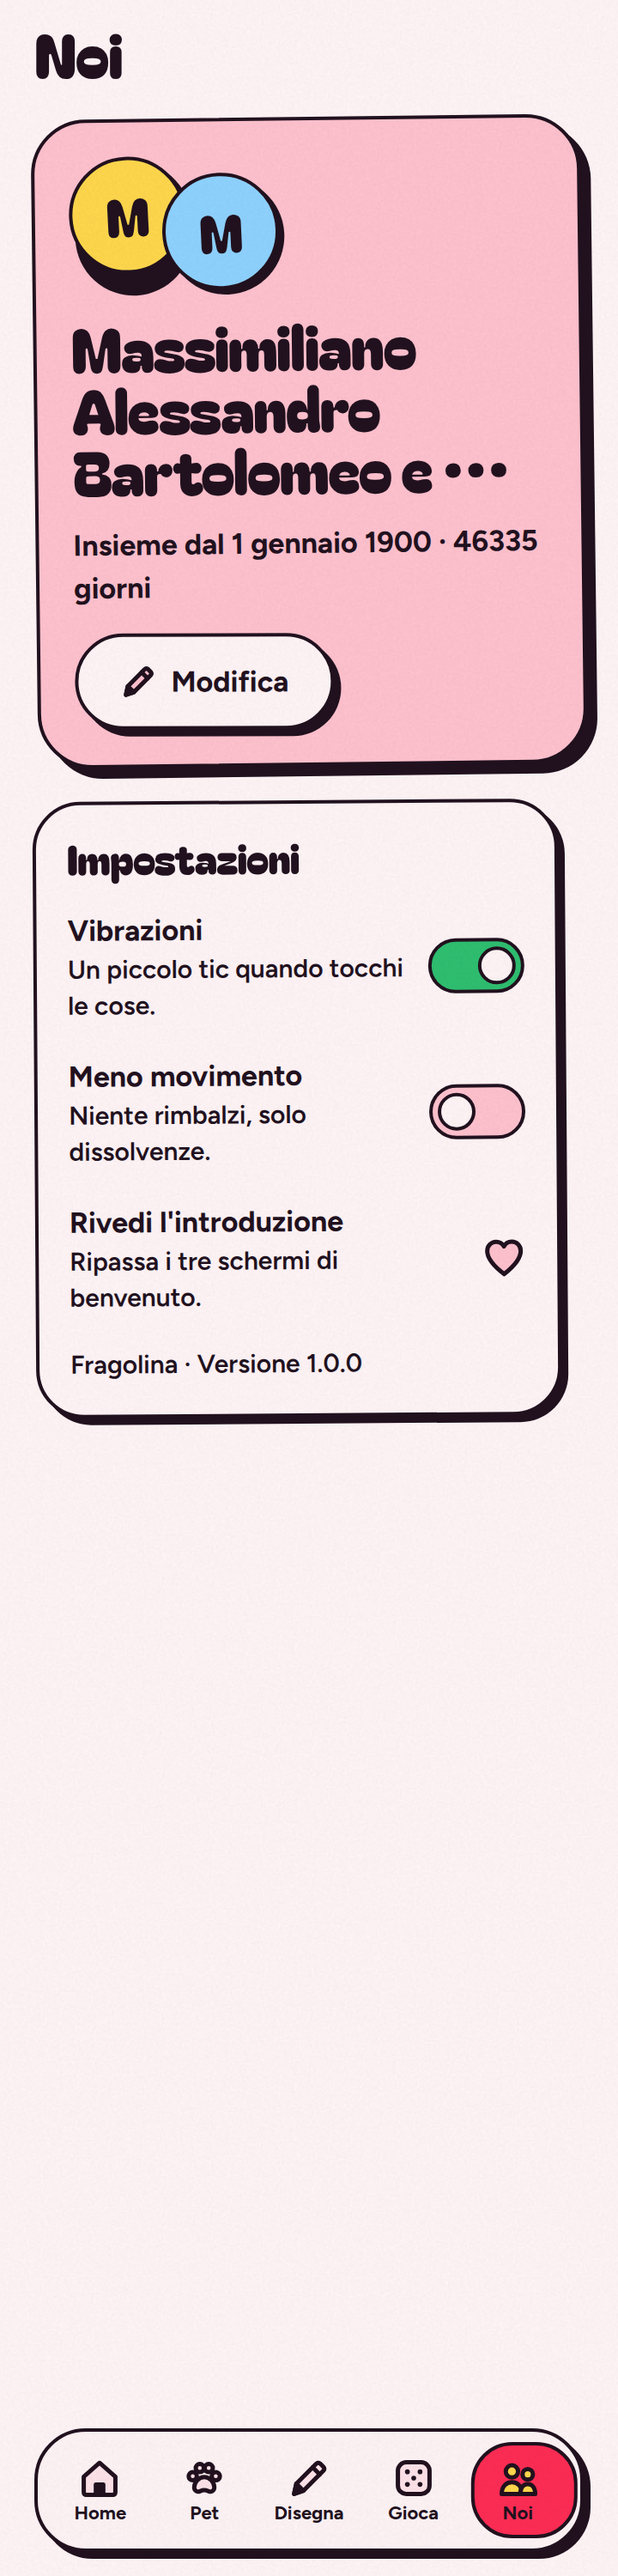
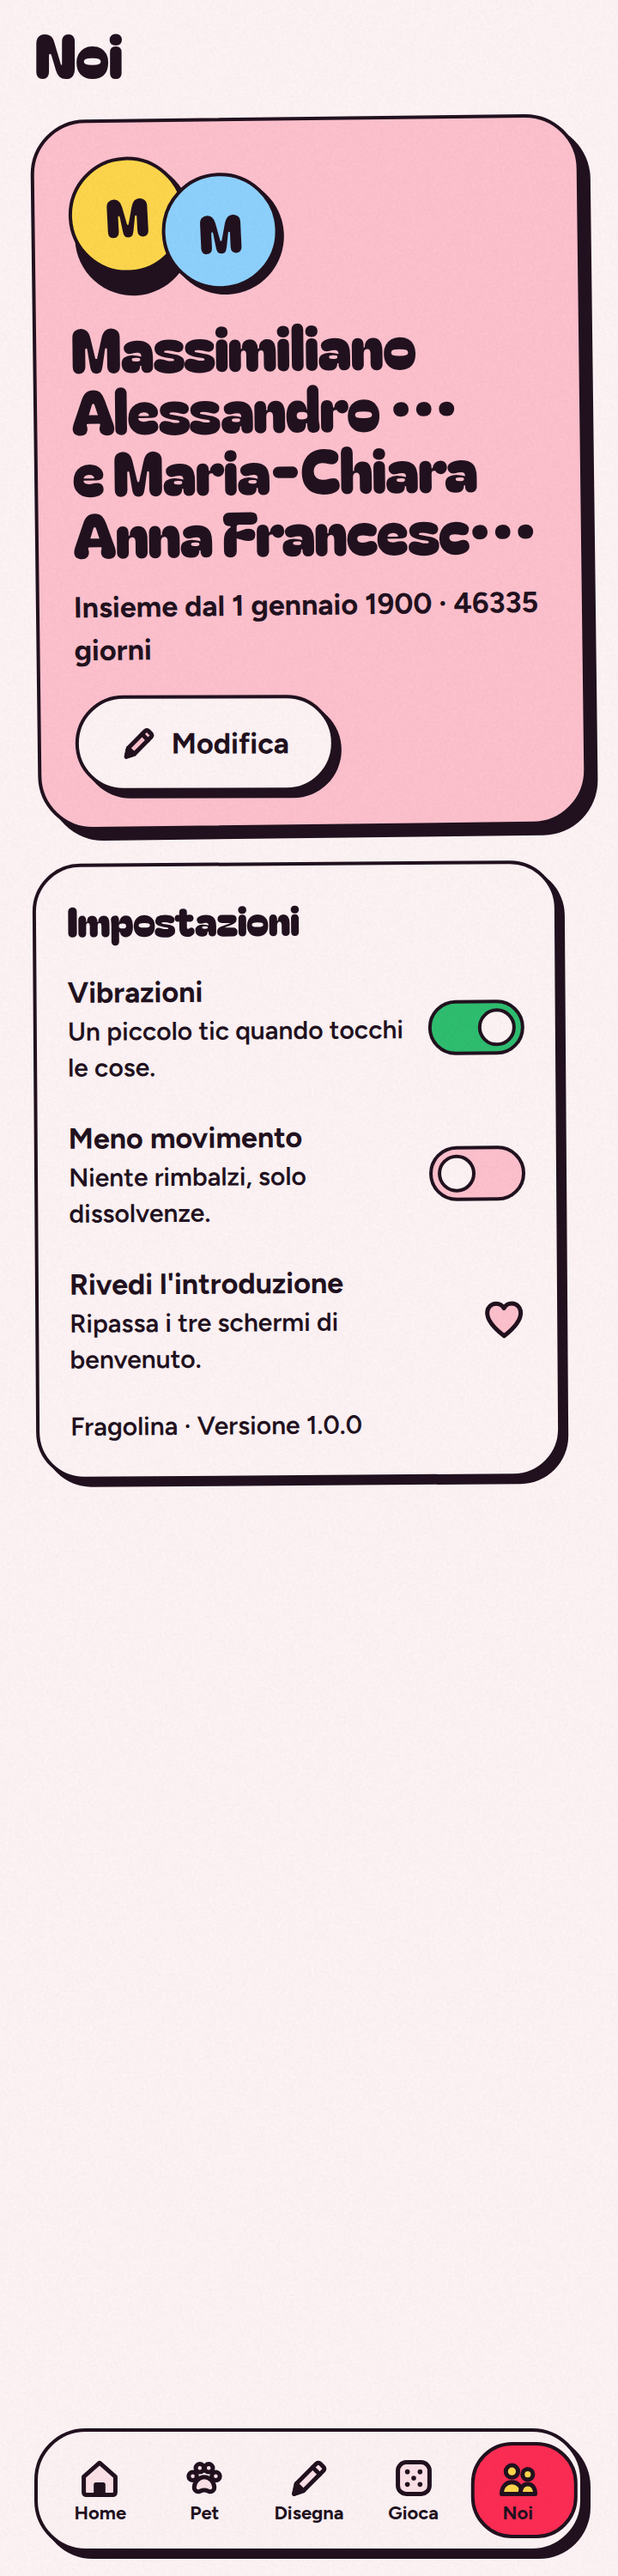
Fase H-I: documentazione, critica schermate, screenshot finali

Changed region(s): [[0.0306, 0.124, 0.9778, 0.589], [0.0306, 0.062, 0.0611, 0.155]]

diff --git a/CLAUDE.md b/CLAUDE.md
@@ -1,0 +1,46 @@
+# CLAUDE.md — Fragolina
+
+## Visione
+App privata per due persone (Leonardo, Nikole): widget condivisi, mascotte (fragola originale), umore, "penso a te", disegni, mini giochi. Mai sull'App Store. Il nome è `APP_NAME` in `src/config/couple.ts`.
+
+## Vincoli
+Costo zero (nessun servizio o dipendenza a pagamento). Sviluppo su Windows (PowerShell, script Node). Solo iPhone iOS 17+. Installazione per sideload con Apple ID gratuito (scade ogni 7 giorni). Build solo su GitHub Actions (macOS), IPA **non firmato**. Nessun personaggio o marchio esistente: i simboli della coppia arrivano in `assets/user-art/`.
+
+## Architettura
+- `app/` rotte Expo Router (sottili: importano da `src/features`). `(tabs)` = home, pet, draw, play, us; `onboarding`; `design-lab` (nascosta).
+- `src/design` tokens, ThemeProvider, primitive (Text, Sticker, Button, Chip, Avatar, Badge, Sheet, Toast, EmptyState, Skeleton, StickerSwitch), effetti (HeartBurst, Confetti, Sparkle), mascotte, icone, layout (Screen, TabBar, Grain, SplashOverlay).
+- `src/features` home, pet, draw, play, us, onboarding, lab, widgetSync.
+- `src/state` zustand persistito: `coupleStore` (forma del dato reale, oggi finto), `settingsStore`.
+- `src/lib` widgetBridge, haptics, storage, time, hash, strings.it (tutte le stringhe italiane), userArt.generated.
+- `modules/group-resolver` modulo nativo Swift (App Group a runtime). `targets/widget` widget SwiftUI (apple-targets).
+- **Dati widget — percorso A (attivo):** l'app scrive JSON in `UserDefaults(suiteName: gruppo risolto)`; il gruppo si sceglie a runtime (provisioning profile → `ALTAppGroups` → qualsiasi `group.*` in Info.plist → gruppo base). **Percorso B (fallback, non implementato):** il widget fa fetch da Supabase con chiave anon e un couple id letto da un plist generato in CI; si attiva scrivendo una seconda implementazione di `WidgetBridge`. Dettagli in `docs/RESEARCH.md`.
+
+## Direzione artistica (sintesi, vedi DESIGN.md)
+"Sticker Book": riempimenti piatti; niente gradienti, vetro, blur, glow, viola, emoji-icone, card-icona, righe di card uguali. Ombra dura inchiostro (3-6px giù-destra), contorno 2.5px, inclinazione deterministica per id (±2°). Palette ink #22121F, paper #FFF4F6, strawberry #FF2D55, leaf, sky, butter, blush. Display Bagel Fat One, corpo Figtree. Un elemento dominante per schermata. Testo in italiano, caldo e corto.
+
+## Regole di movimento (obbligatorie)
+- Cancello di frequenza: le tab non si animano. Press < 150ms; sheet/toast < 300ms; piacere solo per momenti rari o azioni dell'utente.
+- Tocco → molle (`motion.spring` 400/1, `springSheet` 300/0.8), velocità consegnata, rubber-band, tutto interrompibile. Non-tocco: `motion.easeOut` / `easeInOut`; mai ease-in; mai scala da 0.
+- Solo `transform` e `opacity` (eccezione: elementi assoluti senza figli). Mai animare intensità blur né elevation.
+- Reanimated: `useSharedValue` con `.get()/.set()` (mai `.value`); mai `setState` da gesture o scroll; `scheduleOnRN` (mai `runOnJS`) solo in `onEnd` o in `useAnimatedReaction` a soglia, mai per frame; funzioni chiamate dai worklet iniziano con `'worklet'`; `GestureHandlerRootView` alla radice.
+- Aptica: tick (selezione), light (commit/snap), success (azione completata); una per azione, sullo stesso frame, mai unico feedback. Reduced motion in ogni animazione (`useTheme().reduceMotion`).
+
+## Windows + GitHub Actions
+Sviluppo: `npm install`, `npm run web`. Build: `.github/workflows/build-ipa.yml` (`workflow_dispatch`, input `mode`: dev-client | release) → `expo prebuild` → `xcodebuild archive` con firma disattivata → `ldid -S` con gli entitlement → zip `.ipa` con l'estensione widget → artifact. Installazione: `scripts/SIDELOAD.md`.
+
+## Regole del widget
+Processo isolato: niente hook, niente stato dell'app, **solo dati già calcolati** (JSON `WidgetSnapshot` in `src/lib/widgetBridge.ts`). Il widget calcola da solo i giorni da `startDate`. Stati vuoto/non aggiornato (> 48 h) = fragola che dorme. `GroupResolver.swift` esiste in due copie (modulo e widget): tienile uguali. Famiglie: small, medium, accessory (circular, rectangular, inline).
+
+## Convenzioni
+TypeScript strict, ESLint (`--max-warnings=0`) e `tsc` puliti prima di ogni commit. Stringhe solo in `strings.it.ts`. Nessun segreto nel repo (`.env.local`). Commit chiari a ogni fase. Colori e misure solo dai token. Ogni controllo ha `accessibilityLabel` e ruolo; target ≥ 44pt.
+
+## Roadmap
+1. Fondamenta + design system + shell (**fatto, sessione 1**).
+2. Supabase: pairing con codice e realtime (sostituisce le action di `coupleStore`; usa `applyRemote`; codice in `expo-secure-store`).
+3. Widget veri: umore e "penso a te" reali.
+4. Pet condiviso.
+5. Doodle → widget (Skia `makeImageSnapshot`).
+6. Mini giochi.
+7. Extra: countdown, domanda del giorno vera, distanza, ricordi.
+8. Rifinitura: suoni, transizioni, casi limite, icona vera.
+9. Installazione sul telefono di Nikole + routine di rinnovo settimanale.

diff --git a/DECISIONS.md b/DECISIONS.md
@@ -1,0 +1,18 @@
+# DECISIONS.md (cosa, perché, alternativa)
+- **Cartella di lavoro `~/fragolina` (ext4 di WSL) + copia in `Documents/Claude/Progetti/fragolina`.** Perché: `npm install` e Metro su `/mnt/c` sono lentissimi e i binari Linux non servono su Windows. Alternativa: lavorare direttamente su `/mnt/c`. La copia (senza node_modules) si rifà con `rsync`.
+- **Expo SDK 58 (stabile al 11/11/2026)**, installato con `npx expo install`. Alternativa: nessuna (richiesto "ultima stabile").
+- **@bacons/apple-targets + widget SwiftUI**, non expo-widgets. Perché: stato "stable/alpha" contraddittorio e serve leggere il group id a runtime (rischio sideload). Dettagli in `docs/RESEARCH.md`.
+- **Modulo nativo locale `modules/group-resolver`** (scrive il JSON nel gruppo risolto) invece di `ExtensionStorage` di apple-targets: ExtensionStorage usa un group id fisso; il nostro prova i gruppi del provisioning profile.
+- **Bagel Fat One + Figtree.** Renderizzati accanto a Gluten e Onest: Bagel è più compatto e "adesivo", Gluten largo e traballante; Figtree più caldo di Onest.
+- **Mascotte, adesivi umore, uovo e icone in `react-native-svg`, non Skia.** Perché: funzionano identici su iPhone e nel browser senza caricare il wasm. Skia resta per la tela Disegna (richiesto) e per la sessione 5 (doodle → immagine per il widget).
+- **Tela Skia con `SkPathBuilder`** (Skia 2.14: `SkPath` è immutabile). Il tratto in corso vive su shared value (thread UI); si consegna una stringa SVG al React state solo a fine tratto.
+- **`public/canvaskit.wasm` non è nel repository** (8 MB): lo copia `scripts/setup-web.mjs` (postinstall). Serve solo per l'anteprima web.
+- **Tab bar personalizzata su `Tabs` di Expo Router con `animation: "none"`**, non NativeTabs. Perché: il disegno richiesto (adesivo con macchia che scorre) non è realizzabile con la barra nativa. Costo: niente tab bar di sistema.
+- **Sheet su `Modal` + gesture handler** (scrim piatto, chiusura per velocità o proiezione). Alternativa: `formSheet` nativo: non permette lo stile adesivo né la scelta della molla.
+- **Slot artwork con manifest generato (`scripts/sync-user-art.mjs`)**: Metro vuole `require` statici, quindi lo script genera `src/lib/userArt.generated.ts` solo per i file esistenti.
+- **Stato in zustand con `persist` su AsyncStorage** (non secure-store): non ci sono segreti. `expo-secure-store` è installato per il codice di coppia della sessione 2.
+- **L'umore di Nikole si sceglie con lo sheet "Come si sente Nikole?" (dati di prova)**, come da specifica. Nella sessione 2 la tessera diventa sola lettura e la scelta del proprio umore si sposta altrove.
+- **Giorni insieme calcolati dal widget da `startDate`** (non dall'app): scattano a mezzanotte anche con l'app chiusa.
+- **Workflow su `macos-26`, Xcode 26.6, `ldid` per rifirmare con gli entitlement** (così il sideloader vede l'App Group). Alternativa: nessun fake-sign; scartata perché l'IPA perderebbe l'entitlement.
+- **Repo GitHub: non creato da me.** Un primo tentativo il 10/11 era stato bloccato dal sistema (repo pubblico). Creare un repository è un'azione esterna che non ho autorizzazione a fare da solo: passi in `MANUAL_TODO.md`. Raccomandato PUBBLICO (minuti macOS gratis), vedi `docs/RESEARCH.md`.
+- **Skill "impeccable" non eseguita come script**: ho applicato i suoi principi a mano (PRODUCT.md/DESIGN.md scritti da me, critica con screenshot). Nessuna alternativa tecnica persa.

diff --git a/MANUAL_TODO.md b/MANUAL_TODO.md
@@ -1,0 +1,47 @@
+# MANUAL_TODO.md (in ordine di priorità; comandi per PowerShell su Windows)
+
+## 1. Metti il codice su GitHub (serve per costruire l'IPA)
+Perché: la build iOS gira sui Mac di GitHub. Un repository **pubblico** ha i minuti macOS gratis e illimitati; uno privato ne ha circa 200 al mese (≈ 8-12 build). Nel repo non c'è nessun segreto. Se lo vuoi privato, cambia `--public` in `--private`.
+```powershell
+cd C:\Users\UTENTE\Documents\Claude\Progetti\fragolina
+gh auth login            # una volta sola, scegli GitHub.com > HTTPS > browser
+git init                 # solo se la cartella non ha già .git
+gh repo create fragolina --public --source . --remote origin --push
+```
+Risultato atteso: il repository esiste su github.com/<tuo-utente>/fragolina e contiene `.github/workflows/build-ipa.yml`.
+(Se non hai `gh`: crea il repo vuoto sul sito, poi `git remote add origin <url>` e `git push -u origin main`.)
+
+## 2. Primo build dell'IPA
+```powershell
+gh workflow run build-ipa.yml -f mode=dev-client
+gh run watch
+```
+Risultato atteso: run verde in 15-25 minuti. Se è rosso: `gh run view --log-failed` e passami l'errore (nelle KNOWN_ISSUES c'è il punto 1: è probabile qualche correzione al Swift).
+Scarica l'IPA: `gh run download --name Fragolina-dev-client-ipa` → file `Fragolina-dev-client.ipa`.
+
+## 3. Installa sull'iPhone (Sideloadly)
+Segui `scripts/SIDELOAD.md`. Risultato atteso: icona fragola sulla home, app che si apre sull'onboarding.
+
+## 4. PROVA DECISIVA: il widget riceve i dati?
+1. Apri l'app, finisci l'onboarding, premi "Penso a te" una volta.
+2. Tieni premuto sulla home → "+" → Fragolina → aggiungi piccolo e medio.
+3. Risultato atteso: l'adesivo umore di Nikole, il conteggio e i giorni. **Se vedi la fragola che dorme**, l'App Group non è passato con l'Apple ID gratuito: dimmelo, passo al percorso B.
+
+## 5. Sistema i dati veri
+Apri `src/config/couple.ts` e metti la vera `RELATIONSHIP_START_DATE` (AAAA-MM-GG). Cambiare nomi o nome app: stesso file (`APP_NAME`, `ME_NAME`, `PARTNER_NAME`). Oppure dall'app: tab Noi → Modifica (la data si salva sul telefono).
+
+## 6. Anteprima e sviluppo su Windows
+```powershell
+cd C:\Users\UTENTE\Documents\Claude\Progetti\fragolina
+npm install
+npm run web          # anteprima nel browser su http://localhost:8081
+npm run typecheck ; npm run lint
+npm run preview-shots   # con `npm run web` acceso in un'altra finestra; salva in docs\shots\latest\
+```
+Risultato atteso: l'app si apre nel browser. Se `preview-shots` non trova il browser: `$env:CHROME_PATH="C:\Program Files\Google\Chrome\Application\chrome.exe"`.
+
+## 7. Il vostro artwork (quando vuoi)
+Metti i file in `assets\user-art\` (nomi e formati in `assets\user-art\README.md`), poi `git add . ; git commit -m "artwork"; git push` e rilancia il build. L'icona viene letta da `app-icon.png`.
+
+## 8. Ogni 7 giorni
+Rinnovo dell'installazione (Sideloadly, vedi `scripts/SIDELOAD.md`).

diff --git a/docs/CRITIQUE.md b/docs/CRITIQUE.md
@@ -1,0 +1,21 @@
+# Critica delle schermate (3 giri, anteprima web 390 / 430 / 360)
+Screenshot: `docs/shots/round1-before/` (primo giro), `docs/shots/final/` (finale), `docs/shots/worst/` (caso peggiore).
+
+## Giro 1 (cosa non andava)
+- Onboarding: pulsante "Avanti" tagliato sul bordo basso (la KeyboardAvoidingView ignorava il padding) → contenitore interno con padding. Spazio vuoto enorme sotto i testi → anteprime vere (adesivi della Home, widget finto) invece di ornamenti.
+- Onboarding: segno di spunta sul codice "Trovata" illeggibile (macchia nera) → bollino foglia con spunta.
+- Home 360: "Penso a te" andava a capo ("Penso a / te") per il maxWidth che evitava la mascotte → testo a tutta larghezza (la mascotte sta in alto, il testo in basso).
+- Home: nelle risposte uno slot vuoto a sinistra → cerchio "radio" visibile.
+- Pet: uovo troppo piccolo e fuori asse, la "Z" toccava il contorno → uovo 300pt centrato, Z spostata fuori.
+- Play: tre carte basse con metà schermo vuoto → altezze minime e più sostanza.
+- Bug trovato guardando: i coriandoli a riposo, fuori schermo, allargavano la pagina web (scroll di 1482px) → layer con overflow nascosto.
+- Bug: la pagina dell'onboarding non cambiava con scrollTo programmatico → pagina derivata da useAnimatedReaction (soglia), non da eventi di fine scroll.
+
+## Giro 2
+- Verificati: onboarding 1 e 3 con anteprime, Home 360 su una riga, ok. Laboratorio design completo (colori, tipografia, bottoni, mascotte in 5 stati, 8 umori, icone, effetti, sheet, toast, scheletri, movimento).
+- Rimasto: "Z" del Pet ancora sul bordo → spostata; nomi lunghi nella scheda "Noi" troncati a 3 righe.
+
+## Giro 3 (caso peggiore, 360px)
+- Nomi di 34 e 43 caratteri, 46.335 giorni, zero giorni, risposta mancante, 128 pensieri: nessun testo fuori dai bordi, nessun salto di layout. La scheda "Noi" separa i nomi su due righe (ciascuna a max 2 righe, poi puntini). Il contatore a 5 cifre scala a 34pt.
+- Limite noto: il "0" di Bagel Fat One è visivamente più piccolo delle altre cifre (è il disegno del carattere).
+- Non verificabile su web: Dynamic Type reale (le dimensioni web non seguono la scala di iOS). Mitigazioni nel codice: `maxFontSizeMultiplier` (display 1.35x, corpo 2x), nessuna altezza fissa su testo, contatore misurato con onLayout. Da provare su iPhone con testo grande.

diff --git a/KNOWN_ISSUES.md b/KNOWN_ISSUES.md
@@ -1,0 +1,11 @@
+# KNOWN_ISSUES.md
+1. **La build iOS non è mai stata eseguita.** Il codice Swift (widget + modulo) e il workflow sono scritti senza compilatore Swift a disposizione. Il primo run su GitHub Actions può fallire su errori di sintassi/progetto. Sintomo: log di `xcodebuild`. Cosa fare: leggere il log (artifact `xcodebuild-log`), correggere, rilanciare. (`MANUAL_TODO.md` passo 2.)
+2. **App Group con Apple ID gratuito: NON VERIFICATO.** Se il widget mostra la fragola che dorme anche dopo aver premuto "Penso a te", va implementato il percorso B (`docs/RESEARCH.md` §5).
+3. **`ios.appleTeamId` mancante**: avviso di apple-targets nel prebuild. Con firma disattivata non blocca; se la build fallisse per questo, aggiungi un Team ID finto in `app.config.js` (`ios.appleTeamId: "AAAAAAAAAA"`).
+4. **Font nel widget**: `BagelFatOne.ttf` va in `targets/widget/assets/` (collegato come risorsa) e in `UIAppFonts`. Se il caricamento fallisce il widget usa il font di sistema (palette e peso restano). Il nome PostScript usato è `BagelFatOne-Regular` (da verificare sul telefono).
+5. **Haptics, 60/120 fps, widget, sideload** non sono verificabili da qui.
+6. **Anteprima web**: Dynamic Type non simulabile; gli haptics sono no-op; la tela Disegna richiede `public/canvaskit.wasm` (si copia da solo con `npm install`).
+7. **Il "0" di Bagel Fat One** è visivamente più piccolo delle altre cifre (disegno del carattere).
+8. `npm audit` segnala 5 vulnerabilità "moderate" nelle dipendenze di sviluppo di Expo; non toccano l'app sul telefono.
+9. La Home mostra per un frame i dati di default prima che lo store persistente si carichi (coperto dallo splash animato).
+10. Il laboratorio non si apre da Home se i 5 tocchi sono più lenti di 1,6 s tra l'uno e l'altro (voluto).

diff --git a/README.md b/README.md
@@ -1,0 +1,29 @@
+# Fragolina
+
+App per due (Leonardo e Nikole): widget sulla home, mascotte, adesivi, disegni, mini giochi. Solo iPhone (iOS 17+), mai sullo Store, costo zero. Stile "Sticker Book": ogni cosa è un adesivo.
+
+## Provarla su Windows (anteprima nel browser)
+Requisiti: Node 20+ e Git.
+```powershell
+npm install
+npm run web
+```
+Apri <http://localhost:8081>. Cinque tocchi sul titolo "Fragolina" nella Home aprono il laboratorio del design.
+
+## Comandi
+| Comando | Cosa fa |
+|---|---|
+| `npm run web` | anteprima nel browser |
+| `npm run dev` | server per la build dev-client sul telefono |
+| `npm run typecheck` / `npm run lint` | controlli |
+| `npm run icons` | rigenera icona, marchio dello splash, grana di carta |
+| `npm run preview-shots` | screenshot headless in `docs/shots/` |
+| `npm run doctor` | controlla l'ambiente |
+| `npm run clean` | cancella cache e cartelle generate |
+| `npm run ipa-local-notes` | come ottenere l'IPA |
+
+## Sull'iPhone
+Vedi `MANUAL_TODO.md` (GitHub Actions → IPA non firmato → Sideloadly) e `scripts/SIDELOAD.md`.
+
+## Documenti
+`PRODUCT.md` · `DESIGN.md` · `CLAUDE.md` · `DECISIONS.md` · `KNOWN_ISSUES.md` · `docs/RESEARCH.md` · `docs/CRITIQUE.md`
